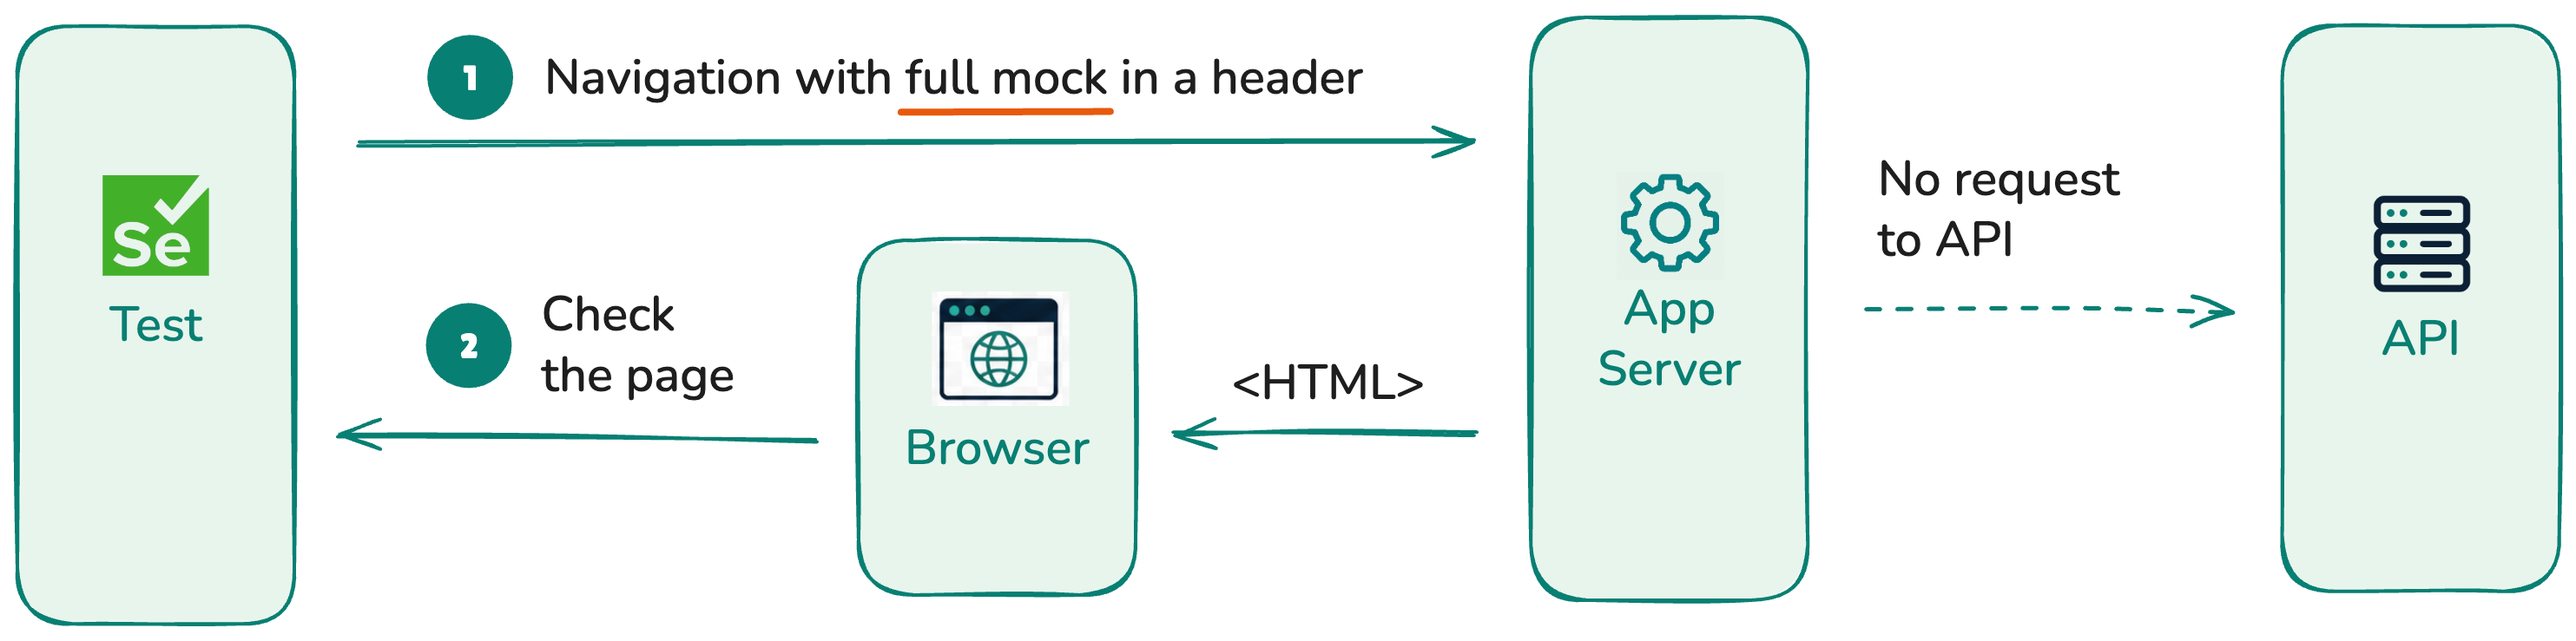
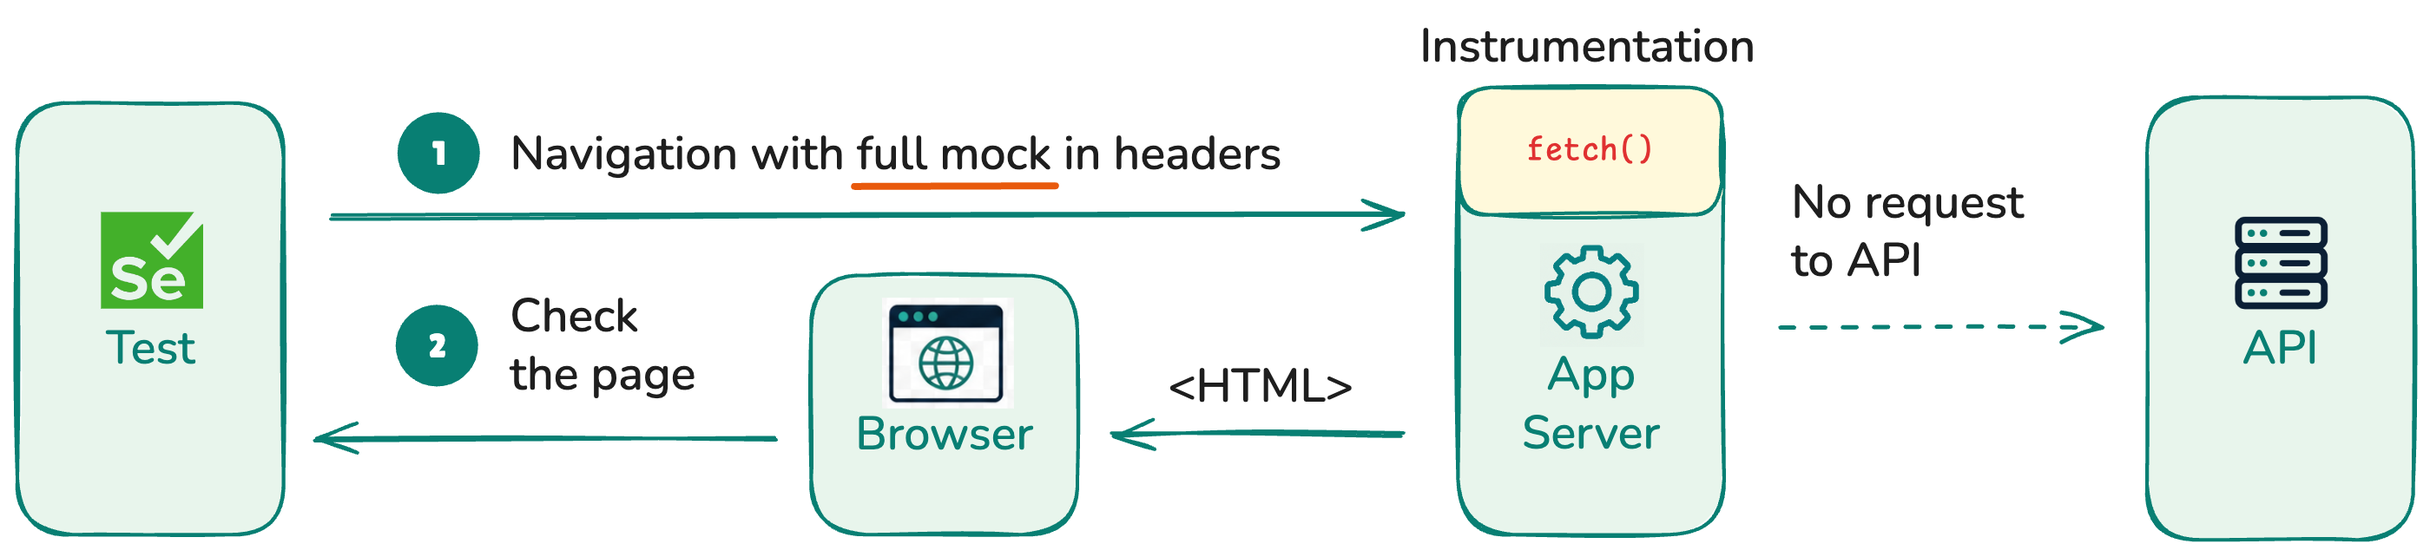
done

diff --git a/style.css b/style.css
@@ -123,6 +123,7 @@
 
 .slidev-layout blockquote p {
   margin: 0.25rem 0;
+  font-size: 1.2rem;
 }
 
 .about-me-slide img[alt="Vitalii Potapov"] {

diff --git a/pages/recap.md b/pages/recap.md
@@ -2,17 +2,19 @@
 
 # What we learned
 
-- **Request mocking unlocks hidden states**  
-  Empty lists and error flows become automated test cases.
+<v-clicks>
+
+- **Request mocking unlocks better testing**  
+  Make tests deterministic and cover all scenarios.
 - **Selenium BiDi controls browser requests**  
   The test can intercept, continue, fail, or fulfill requests.
-- **SSR needs server cooperation**  
-  The browser cannot intercept requests that never happen in the browser.
-- **Mock data should stay realistic**  
-  Deterministic data helps only if it tracks real API contracts.
+- **Server-side mocks need browser + server cooperation**  
+  Use BiDi interception, custom header and app instrumentation to mock requests on server.
 
-## Deterministic data leads to reliable tests.
+</v-clicks>
 
-<!--
-Cue: Summarize the main claims. End on deterministic data and realistic API contracts.
--->
+<div v-click>
+
+> ❗ **Don't forget to sync your mocks with real API responses.**
+
+</div>

diff --git a/pages/last.md b/pages/last.md
@@ -1,19 +1,23 @@
 ###### Thank you
 
-# Repository with code samples
+# Thank you for your attention!
 
-```txt
-https://github.com/your-org/selenium-bidi-request-mocking
-```
+<div class="grid grid-cols-2 gap-8 mt-6 items-center">
 
-> **QR code**
->
-> Drop in `/assets/repo-qr.png` later.
+<div>
 
-## Thank you
+Slides, code samples and all other links:
 
-Questions?
+<a class="demo-link mt-4" href="https://github.com/vitalets/selenium-nodejs-request-mocks" target="_blank" tabindex="-1" @mousedown.prevent><span>https://github.com/vitalets/selenium-nodejs-request-mocks</span></a>
 
-<!--
-Cue: Point to the repository with the app, tests, and links. Invite questions.
--->
+</div>
+
+<div class="flex justify-center">
+
+![QR](/qr.png)
+
+</div>
+
+</div>
+
+

diff --git a/pages/limitations.md b/pages/limitations.md
@@ -1,14 +1,12 @@
 ###### LIMITS
 
-# Request mocking still needs rules
+# Header-based mocks limitations
 
 | Limitation | Meaning |
 | --- | --- |
 | **Declarative mocks** | Mock definitions must be serializable. Arbitrary functions do not travel in headers. |
 | **Header size** | Practical request header limits are often around 4-8 KB, depending on the environment. |
 
-In practice, this is usually acceptable when mocks are focused on the state the test actually needs.
+> 👉 In practice, this is usually acceptable. Mocks should focus on the small state the test actually needs.
 
-<!--
-Cue: Be clear about the tradeoffs. RMP is useful, but it is not an unlimited data transport.
--->
+

diff --git a/pages/server-side-rendering.md b/pages/server-side-rendering.md
@@ -1,12 +1,12 @@
 
 ###### Server-side rendering
 
-# What changes with server-side rendering?
+# What about server-side rendering?
 
 - Users are rendered into HTML on the server
 - No browser-side request to `/users`
 - How to mock it?
 
 <div class="demo-link-wrap" style="margin-top: 2rem;">
-  <a class="demo-link" href="http://localhost:3000/ssr" target="_blank" rel="noreferrer">http://localhost:3000/ssr</a>
+  <a class="demo-link" href="http://localhost:3000/ssr" target="_blank" rel="noreferrer" tabindex="-1" @mousedown.prevent>http://localhost:3000/ssr</a>
 </div>

diff --git a/pages/client-side-mocking-result.md b/pages/client-side-mocking-result.md
@@ -8,8 +8,5 @@
 | **Empty list** | ✅ Return `[]` and assert the empty state message |
 | **API error** | ✅ Return status `500` and assert error details |
 
-For client-side fetches, BiDi gives the test direct control over browser network requests.
+> For client-side fetches, BiDi gives the test direct control over browser network requests.
 
-<!--
-Cue: Summarize the client-side win before switching to the server-side rendering problem.
--->

diff --git a/pages/server-side-instrumentation.md b/pages/server-side-instrumentation.md
@@ -1,0 +1,19 @@
+###### Server-side mocks
+
+# App Instrumentation
+
+Intercept all outgoing `fetch()` requests on server and apply mocks from headers.
+
+```js
+// instrumentation.js
+
+if (process.env.NODE_ENV !== 'production') {
+  setupFetchInterceptor(async () => {
+    const { headers } = await import('next/headers.js');
+    return headers();
+  });
+}
+```
+
+> 👉 Depends on your framework and programming language.
+

diff --git a/pages/server-side-two-layers.md b/pages/server-side-two-layers.md
@@ -1,0 +1,8 @@
+###### Server-side mocks
+
+# Two interception layers
+
+| Layer | Responsibility |
+| --- | --- |
+| <span style="white-space: nowrap;">**Browser layer**</span> | BiDi intercepts the navigation request and attaches the serialized mock schema. |
+| **Server layer** | The server intercepts outgoing request, reads the header and returns mocked responses.

diff --git a/pages/demo-app.md b/pages/demo-app.md
@@ -7,6 +7,6 @@ class: demo-application-slide
 # Meet the app
 
 <div class="demo-link-wrap">
-  <a class="demo-link" href="http://localhost:3000" target="_blank" rel="noreferrer">http://localhost:3000</a>
+  <a class="demo-link" href="http://localhost:3000" target="_blank" rel="noreferrer" tabindex="-1" @mousedown.prevent>http://localhost:3000</a>
 </div>
 

diff --git a/pages/about-me.md b/pages/about-me.md
@@ -7,11 +7,11 @@ layoutClass: gap-10 about-me-slide
 
 # Full-stack developer, test automation maintainer
 
-- 🇪🇸 Spain
+- 📍 Spain
 - 💊 Pharma
 - 👨💻 Full-stack, TypeScript, Next.js
 - 🚀 Open source, `playwright-bdd`
-- 😱 Testing since 2012
+- 😱 Wrote first test 14 years ago
 
 ::right::
 

diff --git a/pages/no-mocking-result.md b/pages/no-mocking-result.md
@@ -8,5 +8,5 @@
 | **Empty list** | ❌ Not available: can't control the API response |
 | **API error** | ❌ Not available: can't force the server to fail |
 
-Without mocking, tests are flaky and coverage is limited.
+> ❗ Without mocking, tests are **flaky** and coverage is **limited**.
 

diff --git a/pages/server-side-rmp.md b/pages/server-side-rmp.md
@@ -16,7 +16,7 @@ x-mock-request: {"url":"/users","status":200,"body":[...]}
 
 <div v-click>
 
-✅ No external mock server. Each test carries its own mock data.
+> ✅ No external mock server. Each test carries its own mock data. Highly scalable.
 
 </div>
 
